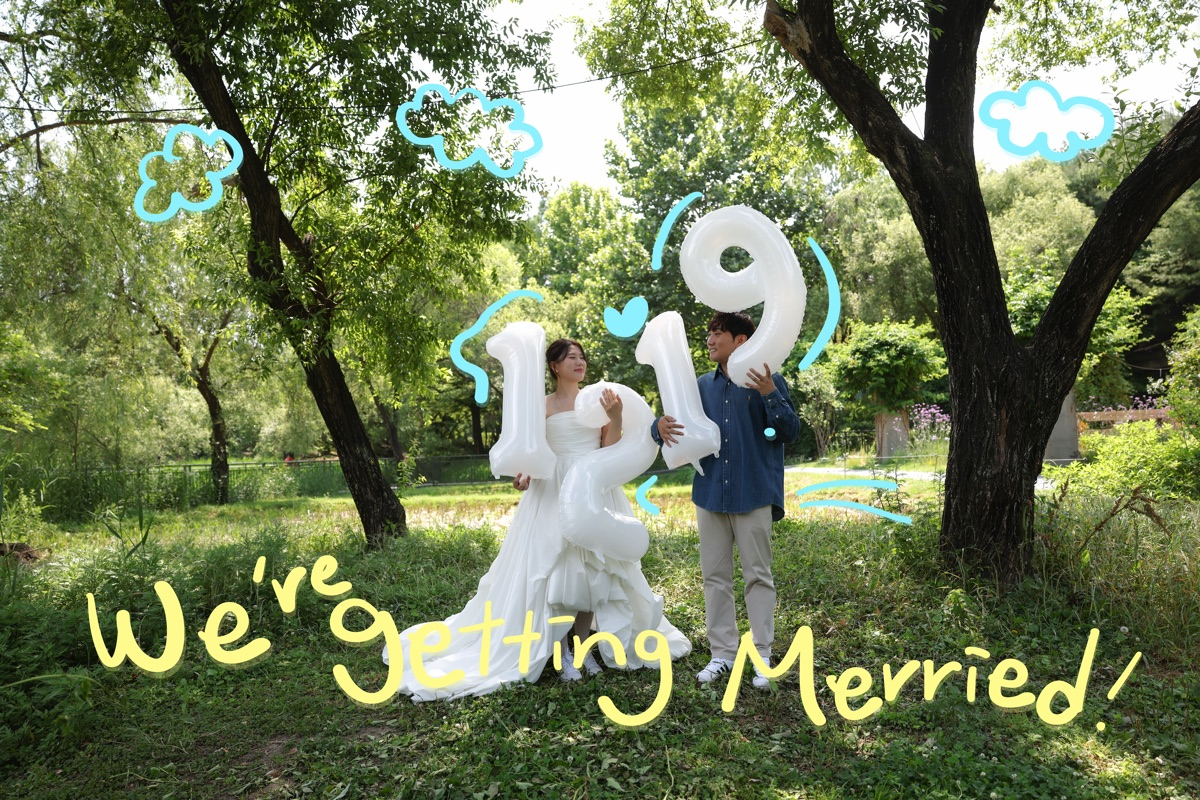
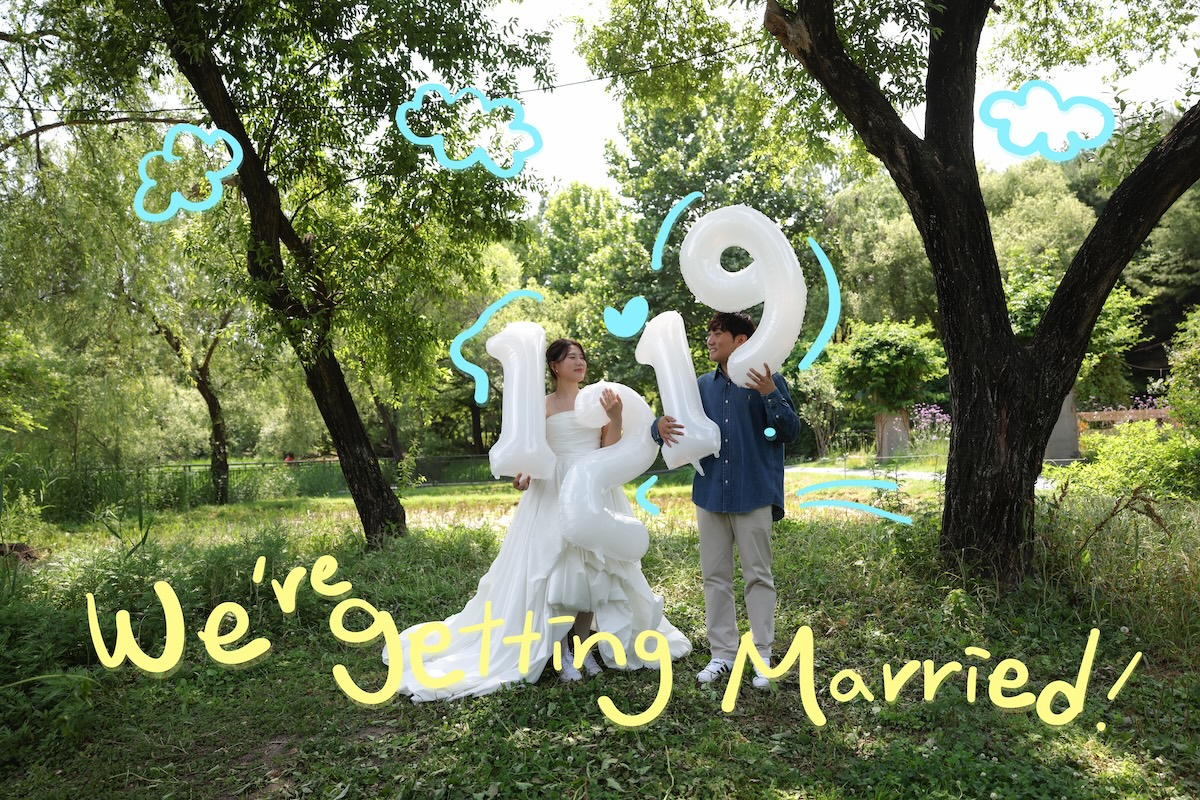
오타 수정 및 교통 정보 추가

diff --git a/src/components/Map.vue b/src/components/Map.vue
@@ -23,6 +23,14 @@ const mapLinks = [
   { label: 'Tmap 지도', href: 'https://tmap.life/b1659d7d', icon: '/images/common/ico_nav02.png' },
 ]
 
+const busGroups = [
+  { label: '간선', routes: ['130', '341', '342', '370'] },
+  { label: '지선', routes: ['3214', '3316', '3324'] },
+  { label: '일반', routes: ['1-4', '30-3', '112-1', '112-5'] },
+  { label: '직행', routes: ['1113', '1113-1', '1113-2', '1113-10', '1113-11'] },
+  { label: '공항버스', routes: ['6200'] },
+]
+
 let cancelled = false
 let retryTimer = 0
 let resizeObserver = null
@@ -170,6 +178,70 @@ onUnmounted(() => {
         <img :src="link.icon" alt="" class="size-5" aria-hidden="true" />
         <span class="text-primary1 body3">{{ link.label }}</span>
       </a>
+    </div>
+
+    <div class="mt-6 flex flex-col items-center gap-8 px-6">
+      <section class="flex flex-col items-center gap-1.5" aria-labelledby="guide-subway">
+        <h3 id="guide-subway" class="body3 inline-flex items-center gap-1.5 text-primary1">
+          <svg xmlns="http://www.w3.org/2000/svg" viewBox="0 0 24 24" fill="none" stroke="currentColor" stroke-width="1.5" stroke-linecap="round" stroke-linejoin="round" class="size-3.5 shrink-0" aria-hidden="true">
+            <rect width="16" height="16" x="4" y="3" rx="2" />
+            <path d="M4 11h16" />
+            <path d="M12 3v8" />
+            <path d="m8 19-2 3" />
+            <path d="m18 22-2-3" />
+            <path d="M8 15h.01" />
+            <path d="M16 15h.01" />
+          </svg>
+          지하철
+        </h3>
+        <p class="body2 mt-1 text-title">5호선 강동역 1번 출구 연결</p>
+      </section>
+
+      <div class="h-px w-14 bg-primary1/30" aria-hidden="true" />
+
+      <section class="flex w-full flex-col items-center gap-1.5" aria-labelledby="guide-bus">
+        <h3 id="guide-bus" class="body3 inline-flex items-center gap-1.5 text-primary1">
+          <svg xmlns="http://www.w3.org/2000/svg" viewBox="0 0 24 24" fill="none" stroke="currentColor" stroke-width="1.5" stroke-linecap="round" stroke-linejoin="round" class="size-3.5 shrink-0" aria-hidden="true">
+            <path d="M8 6v6" />
+            <path d="M15 6v6" />
+            <path d="M2 12h19.6" />
+            <path d="M18 18h3s.5-1.7.8-2.8c.1-.4.2-.8.2-1.2 0-.4-.1-.8-.2-1.2l-1.4-5C20.1 6.8 19.1 6 18 6H4a2 2 0 0 0-2 2v10h3" />
+            <circle cx="7" cy="18" r="2" />
+            <path d="M9 18h5" />
+            <circle cx="16" cy="18" r="2" />
+          </svg>
+          버스
+        </h3>
+        <p class="body2 mt-1 text-title">버스 이용 시 강동역 하차</p>
+        <ul class="mt-4 flex w-full list-none flex-col gap-4">
+          <li
+            v-for="group in busGroups"
+            :key="group.label"
+            class="flex list-none flex-col items-center gap-1"
+          >
+            <p class="body3 text-title">{{ group.label }}</p>
+            <p class="body3 text-title">
+              <template v-for="(route, index) in group.routes" :key="route">
+                <span v-if="index > 0"> · </span>{{ route }}
+              </template>
+            </p>
+          </li>
+        </ul>
+      </section>
+
+      <div class="h-px w-14 bg-primary1/30" aria-hidden="true" />
+
+      <section class="flex flex-col items-center gap-1.5" aria-labelledby="guide-parking">
+        <h3 id="guide-parking" class="body3 inline-flex items-center gap-1.5 text-primary1">
+          <svg xmlns="http://www.w3.org/2000/svg" viewBox="0 0 24 24" fill="none" stroke="currentColor" stroke-width="1.5" stroke-linecap="round" stroke-linejoin="round" class="size-3.5 shrink-0" aria-hidden="true">
+            <circle cx="12" cy="12" r="10" />
+            <path d="M9 17V7h4a3 3 0 0 1 0 6H9" />
+          </svg>
+          주차
+        </h3>
+        <p class="body2 mt-1 text-title">이스트 센트럴 타워 주차장</p>
+        <p class="body3 max-w-64 text-description">검색 후 오피스 방면으로 출입해 주세요.</p>
+      </section>
     </div>
   </div>
 </template>
